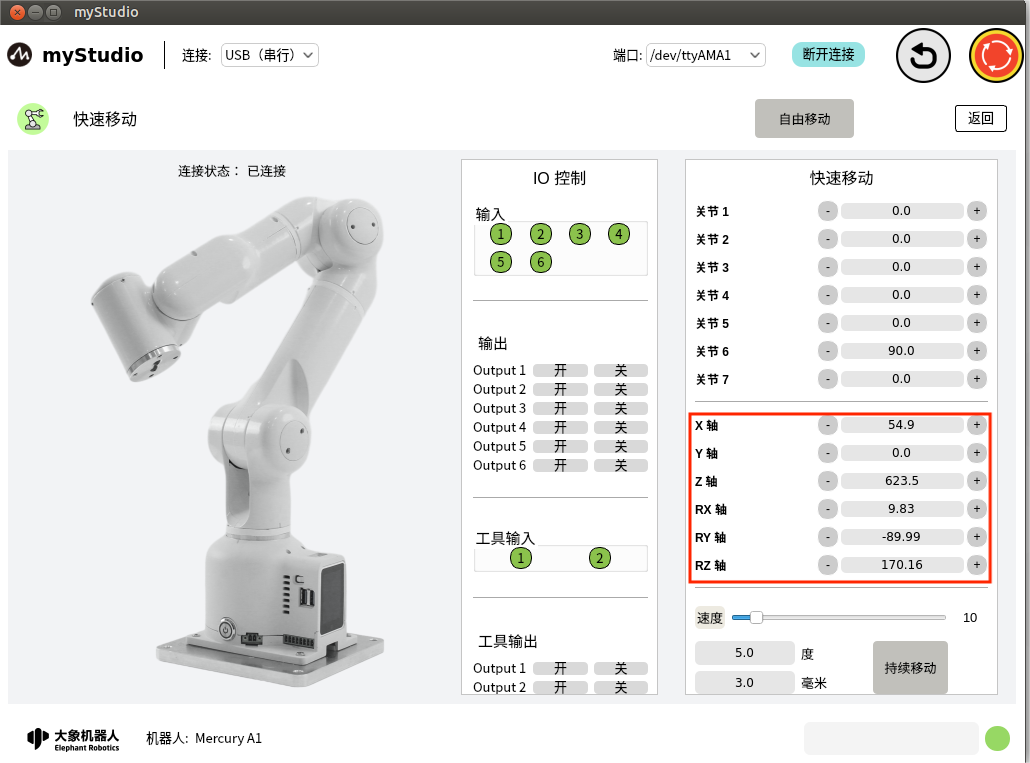
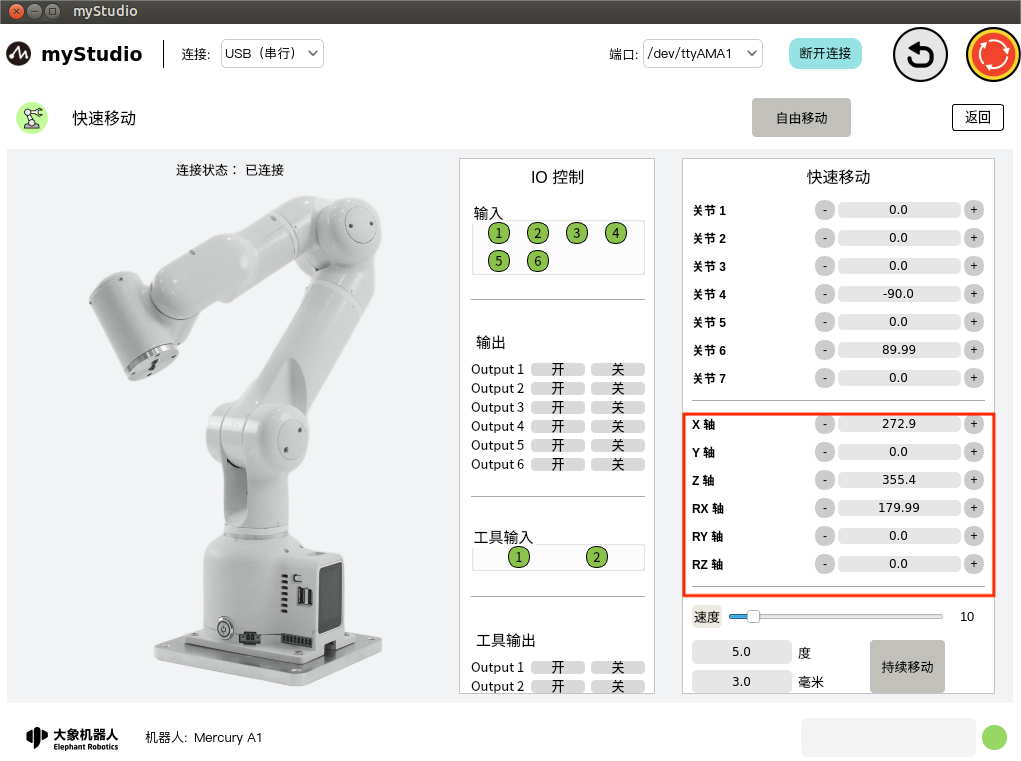
修改快速移动

diff --git a/2-quickmove/2.1-quickmovefirstuse.md b/2-quickmove/2.1-quickmovefirstuse.md
@@ -1,4 +1,12 @@
-# 首次使用
+# 快速移动
+
+*开始之前*
+
+> *1、确保机器已上电*
+> 
+> *2、确保机器连接正常、通信正常*
+> 
+> *3、确保机器处于零位状态*
 
 ## 1 界面介绍
 
@@ -32,6 +40,11 @@ width ="800"  align = "center">
 width ="800"  align = "center">
 
 ## 3 坐标控制
+
+在使用坐标控制之前，需要将 `关节4` 移动到`-90`左右的角度位置。
+
+<img src =../resources/2-quickmove/2-3-0.png
+width ="800"  align = "center">
 
 在坐标控制区域中，通过点击 `+` `-` 按钮，对机械臂进行坐标控制，数值代表当前机械臂的坐标姿态信息，也可以直接修改数值进行坐标控制。
 
